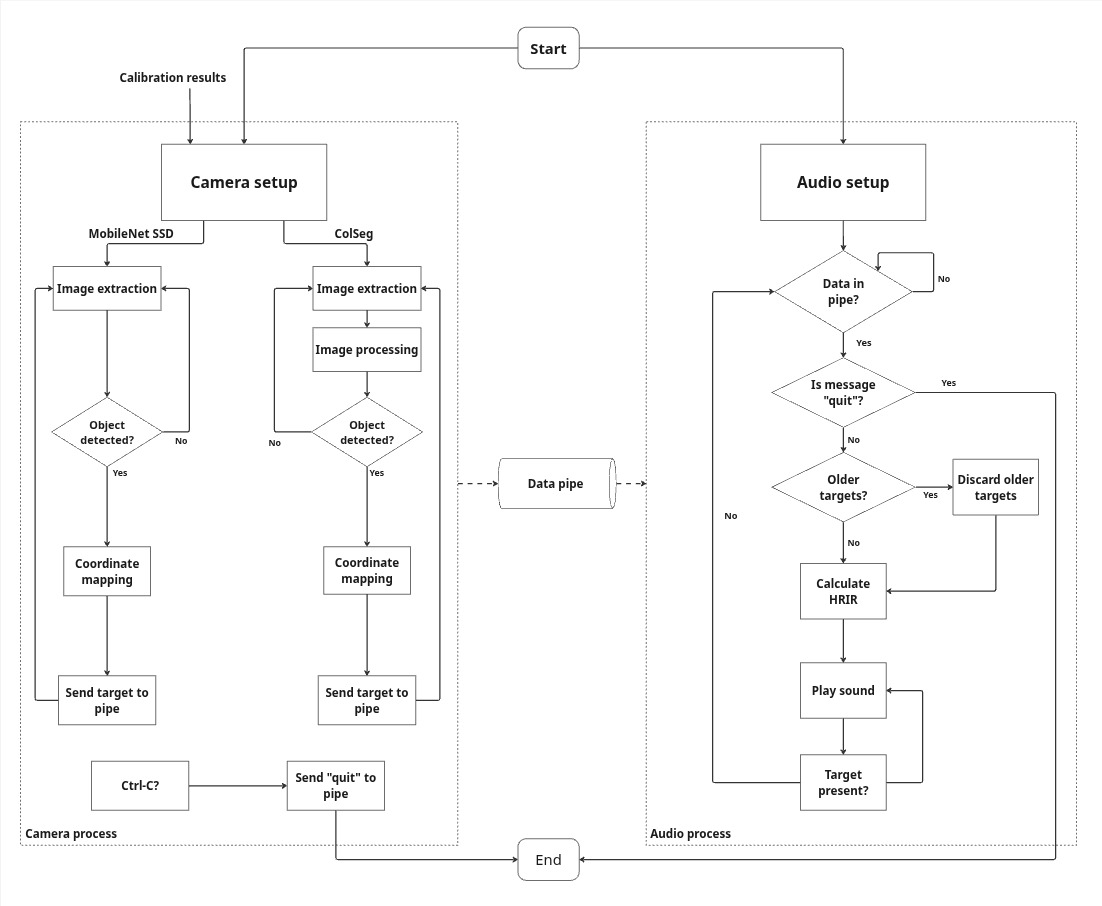
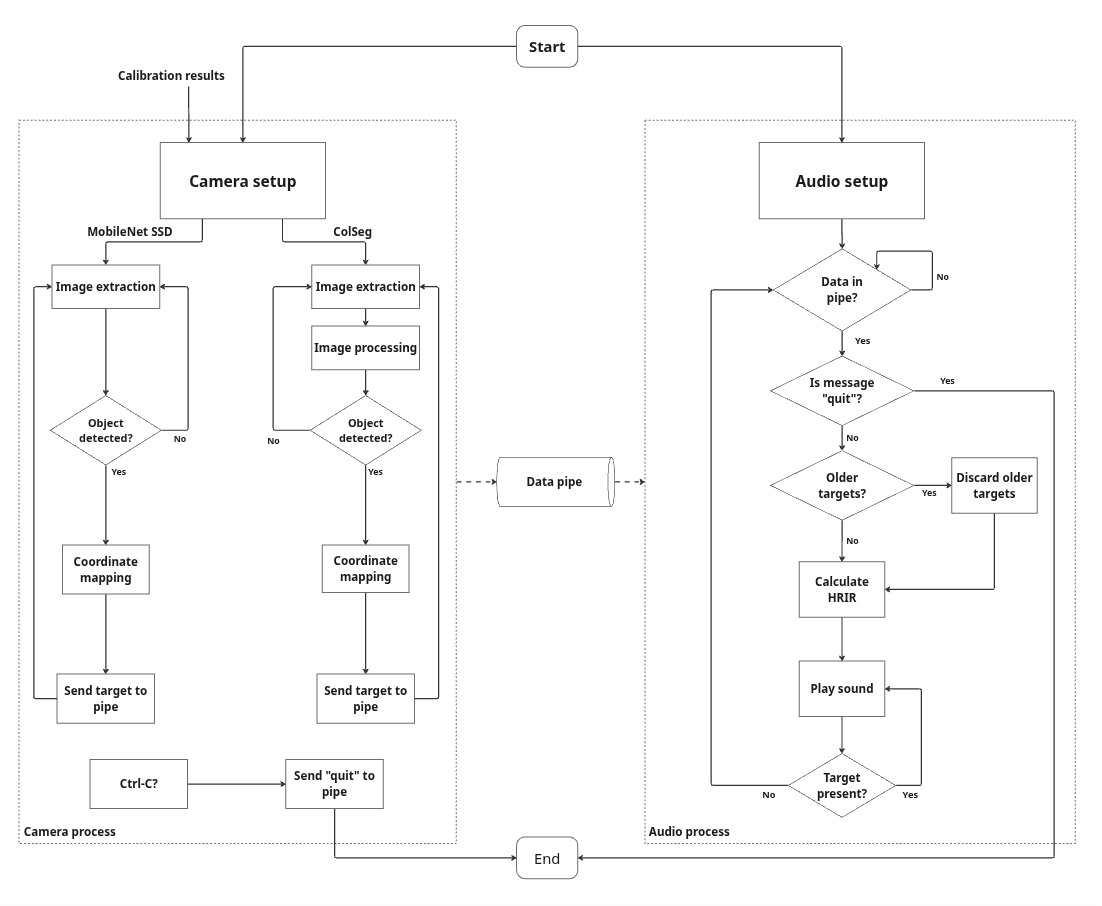
almost done

diff --git a/code/checkVals.py b/code/checkVals.py
@@ -1,14 +1,35 @@
 import numpy as np
+import csv
 
 
-results = np.load("calib_results.npy", allow_pickle=True)
+results = np.load("calib_results_70-30.npy", allow_pickle=True)
 mtx = results.item()["camera matrix"]
 dist = results.item()["distortion coeff"]
 T = results.item()["translation vector"]
 R = results.item()["rotation vector"]
 
 valid = results.item()["valid imgs"]
-print(len(valid))
+print(mtx)
+print(dist)
+print(T)
+print(R)
+
+
+"""
+with open("test_data/calibration/calib_results_wide_90-10.csv", mode='r') as file:
+    reader = csv.reader(file)
+
+    data = [[float(val) for val in row] for row in reader]
+        
+num_cols = len(data[0])
+num_rows = len(data)
+    
+print("Mean of each column:")
+for col in range(num_cols):
+    col_sum = sum(row[col] for row in data)
+    col_mean = col_sum / num_rows
+    print(f"Column {col}: {col_mean}")
+"""
 
 
 """
@@ -64,10 +85,10 @@ fps = results.item()["fps"] #mean: 29.53490502248249
 print(np.mean(fps))
 """
 
-
+"""
 #--------------MobileNet latency data 120 sec--------------#
 results = np.load("per_sec_latency_dataNN_human_30sec.npy", allow_pickle=True)
-timestamp = results.item()["human_entry_time"] #34.7148380279541 sec
+timestamp = results.item()["color_entry_time"] #34.7148380279541 sec
 latency = results.item()["latency"] #mean after 30 sec: 21.55130742544151   ms
 
 max_l = max(latency)
@@ -83,13 +104,13 @@ print(np.mean(latency[human_entry_i:]))
 #print(np.mean(latency[halftime_i:len(latency)]))
 
 results = np.load("per_second_fps_dataNN_human_30sec.npy", allow_pickle=True)
-timestamp = results.item()["human_entry_time"] #34.71368145942688 sec
-fps = results.item()["fps"] #mean after 30 sec: 30.24096638298773
+timestamp = results.item()["color_entry_time"] #34.71368145942688 sec
+fps = results.item()["fps"] #mean after 30 sec: 30.01701603533912
 
 #print(fps[latency_max_i])
 print(timestamp)
 human_entry_i = int(round(timestamp[0]))-1
-print(np.mean(fps[human_entry_i]))
+print(np.mean(fps[human_entry_i:]))
 #Latency is 29.552698135375977 ms at max. At this same point, fps is 29.967384074139964
 #It takes the HRIR ~29.553 ms to calculate, while a frame is processed in ~33.370 ms. No targets are thrown out
 
@@ -97,7 +118,7 @@ for i in range(len(fps)):
     if latency[i] > fps[i]:
         print("bad")
 
-
+"""
 
 """
 #--------------ColSeg latency data 120 sec--------------#
@@ -129,11 +150,14 @@ for i in range(len(fps)):
         print(i)
 
 """
+
 """
 #---------------MobileNet data 120 sec stress test-------------#
 results = np.load("per_sec_latency_dataNN_human_30sec_check.npy", allow_pickle=True)
 latency = results.item()["latency"] #mean: 21.974200010299683  ms
 print(np.mean(latency))
+dropped = results.item()["dropped_targets"]
+print(dropped)
 
 results = np.load("per_second_fps_dataNN_human_30sec_check.npy", allow_pickle=True)
 fps = results.item()["fps"] #mean: 29.20164711900892
@@ -145,6 +169,7 @@ for i in range(len(fps)):
         print(i)
 #bottleneck at index115.
 
+
 #---------------Colseg data 120 sec stress test-------------#
 #1:
 #latency mean: 20.303083247825747
@@ -154,4 +179,210 @@ for i in range(len(fps)):
 #latency mean: 
 #fps mean: 
 #
+"""
+
+"""
+#---------------MobileNet system load data-------------#
+results = np.load("fps_RAM_CPU_temp_dataNN_human_30sec.npy", allow_pickle=True)
+timestamp = results.item()["human_entry_time"] #34.24895262718201 sec
+cpu_data = results.item()["cpu"] #mean: 19.13395061728395 %
+temp_data = results.item()["temp"] #mean: 77.29012345679013 C
+rss = results.item()["ram_rss"] #mean: 622.573688271605 MB
+ram = results.item()["ram_sys"] #mean: 12.014814814814816 %
+fps = results.item()["fps"] #mean: 30.036293247110258
+
+object_entry_i = int(round(timestamp[0]))-1
+print(timestamp)
+print(np.mean(cpu_data[object_entry_i:]))
+print(np.mean(temp_data[object_entry_i:]))
+print(np.mean(rss[object_entry_i:]))
+print(np.mean(ram[object_entry_i:]))
+print(np.mean(fps[object_entry_i:]))
+
+results = np.load("fps_RAM_CPU_temp_dataNN_human.npy", allow_pickle=True)
+cpu_data = results.item()["cpu"] #mean: 19.03530701754386 %
+temp_data = results.item()["temp"] #mean: 75.02543859649123 C
+rss = results.item()["ram_rss"] #mean: 622.4428453947369 MB
+ram = results.item()["ram_sys"] #mean: 11.852631578947367 %
+fps = results.item()["fps"] #mean: 29.778836377138603
+print(np.mean(cpu_data))
+print(np.mean(temp_data))
+print(np.mean(rss))
+print(np.mean(ram))
+print(np.mean(fps))
+
+results = np.load("fps_RAM_CPU_temp_dataNN_nothing.npy", allow_pickle=True)
+cpu_data = results.item()["cpu"] #mean: 8.345175438596492 %
+temp_data = results.item()["temp"] #mean: 71.93289473684212 C
+rss = results.item()["ram_rss"] #mean: 622.429961622807 MB
+ram = results.item()["ram_sys"] #mean: 11.574561403508772 %
+fps = results.item()["fps"] #mean: 29.78292303775268
+print(np.mean(cpu_data))
+print(np.mean(temp_data))
+print(np.mean(rss))
+print(np.mean(ram))
+print(np.mean(fps))
+
+results = np.load("latency_dataNN_human.npy", allow_pickle=True)
+latency = results.item()["latency"] #mean: 20.76022378329573 ms
+print(np.mean(latency))
+dropped = results.item()["dropped_targets"]
+print(dropped)
+
+results = np.load("latency_dataNN_human_30sec.npy", allow_pickle=True)
+timestamp = results.item()["human_entry_time"] #34.250109910964966 s
+latency = results.item()["latency"] #mean: 21.37698729832967  ms
+print(timestamp)
+object_entry_i = int(round(timestamp[0]))-1
+print(np.mean(latency[object_entry_i:]))
+dropped = results.item()["dropped_targets"]
+print(dropped)
+
+for i in range(len(fps)):
+    if latency[i] > 1000/fps[i]:
+        print("bad")
+        print(i)
+
+"""
+
+"""
+#---------------ColSeg system load data-------------#
+results = np.load("fps_RAM_CPU_temp_dataCol_blueBalloon_30sec.npy", allow_pickle=True)
+timestamp = results.item()["color_entry_time"] # sec
+cpu_data = results.item()["cpu"] #mean:  %
+temp_data = results.item()["temp"] #mean:  C
+rss = results.item()["ram_rss"] #mean:  MB
+ram = results.item()["ram_sys"] #mean:  %
+fps = results.item()["fps"] #mean: 
+
+object_entry_i = int(round(timestamp[0]))-1
+print(timestamp)
+print(np.mean(cpu_data[object_entry_i:]))
+print(np.mean(temp_data[object_entry_i:]))
+print(np.mean(rss[object_entry_i:]))
+print(np.mean(ram[object_entry_i:]))
+print(np.mean(fps[object_entry_i:]))
+
+results = np.load("fps_RAM_CPU_temp_dataCol_blueBalloon.npy", allow_pickle=True)
+cpu_data = results.item()["cpu"] #mean:  %
+temp_data = results.item()["temp"] #mean:  C
+rss = results.item()["ram_rss"] #mean:  MB
+ram = results.item()["ram_sys"] #mean:  %
+fps = results.item()["fps"] #mean: 
+print(np.mean(cpu_data))
+print(np.mean(temp_data))
+print(np.mean(rss))
+print(np.mean(ram))
+print(np.mean(fps))
+
+results = np.load("fps_RAM_CPU_temp_dataCol_nothing.npy", allow_pickle=True)
+cpu_data = results.item()["cpu"] #mean:  %
+temp_data = results.item()["temp"] #mean:  C
+rss = results.item()["ram_rss"] #mean:  MB
+ram = results.item()["ram_sys"] #mean:  %
+fps = results.item()["fps"] #mean: 
+print(np.mean(cpu_data))
+print(np.mean(temp_data))
+print(np.mean(rss))
+print(np.mean(ram))
+print(np.mean(fps))
+
+print("---------------------------")
+results = np.load("latency_dataCol_blueBalloon.npy", allow_pickle=True)
+latency = results.item()["latency"] #mean:  ms
+print(np.mean(latency))
+dropped = results.item()["dropped_targets"]
+
+
+results = np.load("latency_dataCol_blueBalloon_30sec.npy", allow_pickle=True)
+timestamp = results.item()["color_entry_time"] # s
+latency = results.item()["latency"] #mean:  ms
+print(timestamp)
+object_entry_i = int(round(timestamp[0]))-1
+print(np.mean(latency[object_entry_i:]))
+dropped = results.item()["dropped_targets"]
+
+
+for i in range(len(fps)):
+    if latency[i] > 1000/fps[i]:
+        print("bad")
+        print(i)
+"""
+
+"""
+#---------------MobileNet system load 1h data-------------#
+results = np.load("NN_1h_stress_data.npy", allow_pickle=True)
+cpu_data = results.item()["cpu"] #mean:  %
+temp_data = results.item()["temp"] #mean:  C
+rss = results.item()["ram_rss"] #mean:  MB
+ram = results.item()["ram_sys"] #mean:  %
+fps = results.item()["fps"] #mean: 
+print(np.mean(cpu_data))
+print(np.mean(temp_data))
+print(np.mean(rss))
+print(np.mean(ram))
+print(np.mean(fps))
+
+results = np.load("NN_1h_latency_data.npy", allow_pickle=True)
+latency = results.item()["latency"] #mean: ms
+print(np.mean(latency))
+dropped = results.item()["dropped_targets"]
+"""
+
+"""
+#---------------ColSeg system load 1h data-------------#
+results = np.load("Col_1h_stress_data.npy", allow_pickle=True)
+cpu_data = results.item()["cpu"] #mean:  %
+temp_data = results.item()["temp"] #mean:  C
+rss = results.item()["ram_rss"] #mean:  MB
+ram = results.item()["ram_sys"] #mean:  %
+fps = results.item()["fps"] #mean: 
+print(np.mean(cpu_data[:589]))
+print(np.mean(temp_data[:589]))
+print(np.mean(rss[:589]))
+print(np.mean(ram[:589]))
+print(np.mean(fps[:589]))
+
+results = np.load("Col_1h_latency_data.npy", allow_pickle=True)
+latency = results.item()["latency"] #mean: ms
+print(np.mean(latency[:589]))
+dropped1 = results.item()["dropped_targets"][:589]
+
+dropped_no_zero = []
+for i in range(len(dropped1)):
+    if dropped1[i] != 0:
+        dropped_no_zero.append(dropped1[i])
+
+print(dropped_no_zero)
+print(np.mean(dropped1))
+print(np.sum(dropped1))
+"""
+
+"""
+#---------------ColSeg system load 10min data-------------#
+results = np.load("Col_10min_stress_10000pix_data.npy", allow_pickle=True)
+cpu_data = results.item()["cpu"] #mean:  %
+temp_data = results.item()["temp"] #mean:  C
+rss = results.item()["ram_rss"] #mean:  MB
+ram = results.item()["ram_sys"] #mean:  %
+fps = results.item()["fps"] #mean: 
+print(np.mean(cpu_data))
+print(np.mean(temp_data))
+print(np.mean(rss))
+print(np.mean(ram))
+print(np.mean(fps))
+
+results = np.load("Col_10min_latency_10000pix_data.npy", allow_pickle=True)
+latency = results.item()["latency"] #mean: ms
+print(np.mean(latency))
+dropped = results.item()["dropped_targets"]
+
+dropped_no_zero = []
+for i in range(len(dropped)):
+    if dropped[i] != 0:
+        dropped_no_zero.append(dropped[i])
+
+print(dropped_no_zero)
+print(np.mean(dropped)*60)
+print(np.sum(dropped))
 """
